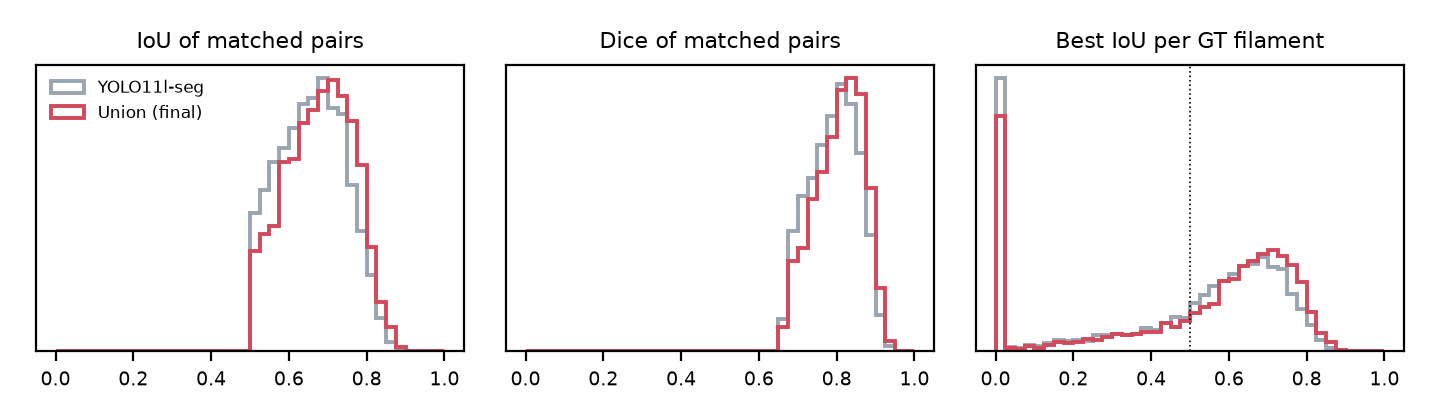
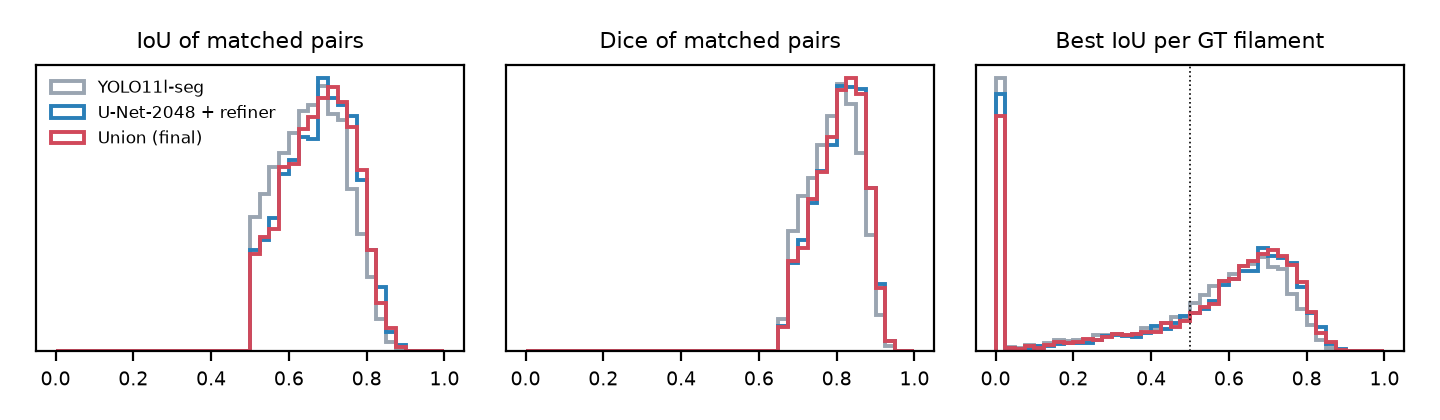
Report: distribution figure compares YOLO, refined U-Net-2048 and union

diff --git a/Azumah/report/report.tex b/Azumah/report/report.tex
@@ -197,13 +197,14 @@ at any threshold.
 \begin{figure*}[t]
 \centering
 \includegraphics[width=0.92\textwidth]{fig_distributions.pdf}
-\caption{Distributions over all 707 OOF images and all annotation sets. Left, middle: IoU and Dice of
+\caption{Distributions over all 707 OOF images and all annotation sets for YOLO alone, the refined
+U-Net-2048 and the final union. Left, middle: IoU and Dice of
 matched pairs. Right: best IoU of each ground-truth filament with any prediction (left of the dotted
 line: missed).}
 \label{fig:dist}
 \end{figure*}
 
-\paragraph{Mask quality (Figure~\ref{fig:dist}).} The refiner shifts the whole distribution of matched IoU upward: the median rises from 0.662 to 0.685 (Dice 0.796 to 0.813) and the lower quartile from 0.594 to 0.614. The merge mainly adds matches: 5,024 matched pairs for YOLO against 5,435 for the final system, and the share of ground-truth filaments that no prediction covers at IoU $>0.5$ falls from 38.7\% to 33.7\%. Most of the remaining misses have no overlapping prediction at all (the spike at 0), so they are detection failures rather than boundary errors.
+\paragraph{Mask quality (Figure~\ref{fig:dist}).} Refinement shifts the whole distribution of matched IoU upward for both proposal sources: the median rises from 0.662 for YOLO alone to 0.685 for both the refined U-Net-2048 and the final union (Dice 0.796 to 0.813). The two refined systems draw masks of the same quality and differ in how many filaments they find: 5,024 matched pairs for YOLO, 5,332 for the refined U-Net-2048 and 5,435 for the union, and the share of ground-truth filaments that no prediction covers at IoU $>0.5$ falls from 38.7\% to 35.0\% and 33.7\%. Most of the remaining misses have no overlapping prediction at all (the spike at 0), so they are detection failures rather than boundary errors.
 
 \begin{figure*}[t]
 \centering

diff --git a/Azumah/scripts/report_figures.py b/Azumah/scripts/report_figures.py
@@ -76,6 +76,7 @@ def _score(name):
     return name, preds, res, m, best
 
 
+FIG_SERIES = [("YOLO11l-seg", "#9aa5b1"), ("U-Net-2048 + refiner", "#2a7fb8"), ("Union (final)", "#d1495b")]
 STAGES = ["YOLO11l-seg", "YOLO + refiner", "U-Net-2048 + refiner", "Union (final)"]
 
 
@@ -185,7 +186,7 @@ def main():
     # Figure 1: distributions of matched IoU / Dice and best IoU per GT filament
     fig, axs = plt.subplots(1, 3, figsize=(7.2, 2.1))
     bins = np.linspace(0, 1, 41)
-    for name, color in [("YOLO11l-seg", "#9aa5b1"), ("Union (final)", "#d1495b")]:
+    for name, color in FIG_SERIES:
         m, best, _ = dist[name]
         axs[0].hist(m, bins=bins, histtype="step", density=True, color=color, lw=1.4, label=name)
         axs[1].hist(2 * m / (1 + m), bins=bins, histtype="step", density=True, color=color, lw=1.4)
